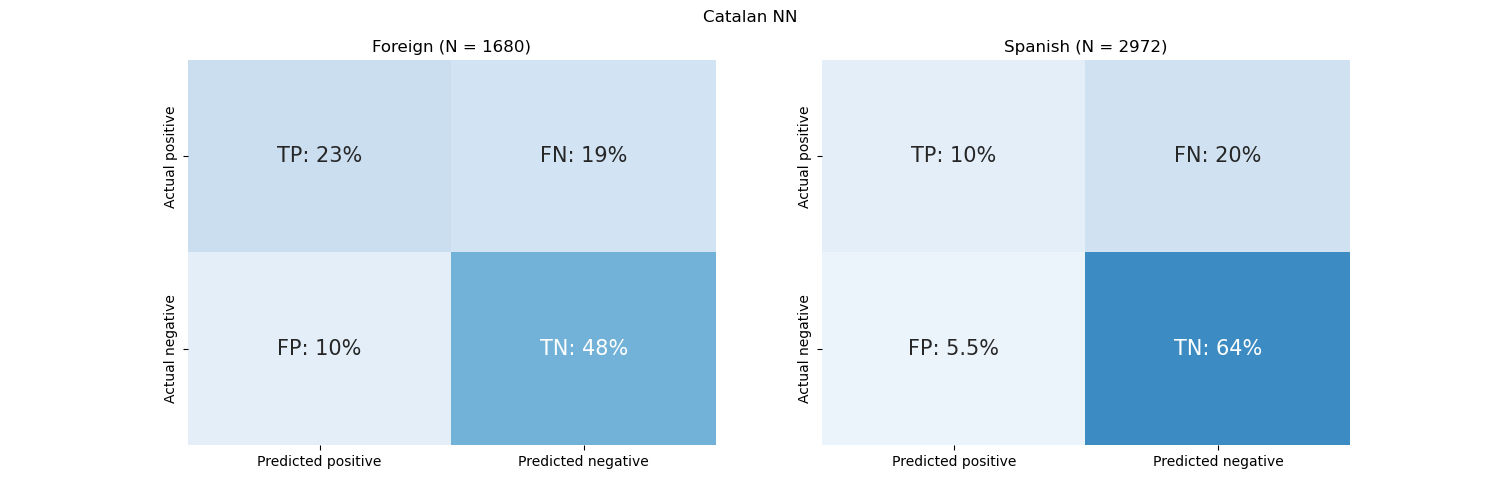
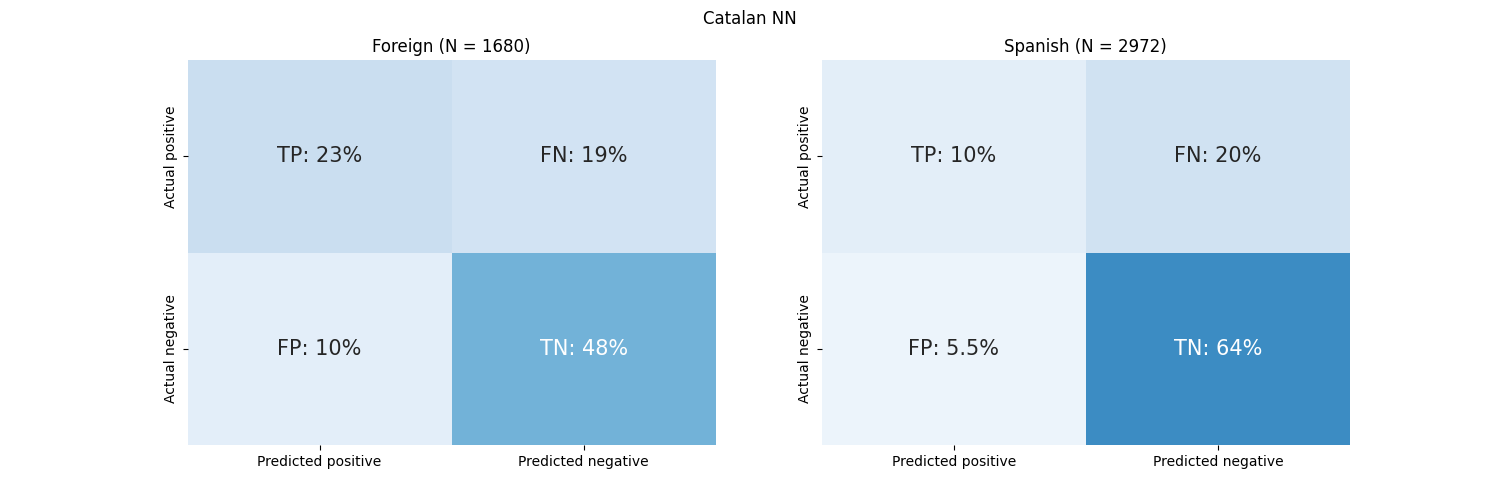
New color palette

diff --git a/src/evaluation_tool/utils.py b/src/evaluation_tool/utils.py
@@ -54,14 +54,17 @@ def flip_dataframe(df, new_colname = 'index'):
 
 def custom_palette(n_colors = 1, specific_col_idx = None):
     """returns a custom palette of n_colors from 
-       https://coolors.co/f94144-f3722c-f8961e-f9844a-f9c74f-90be6d-43aa8b-4d908e-577590-277da1 
+       https://coolors.co/f94d50-f3722c-f8961e-f9844a-f9c74f-a1c680-3a9278-7ab8b6-577590-206683
         
         Args:
             n_color: The number of desired colors max 10. Defaults to 1.
             specific_col_idx: list of desired color indexes. Defaults to None.
     """
-    colors =  ["f94144","f3722c","f8961e","f9844a","f9c74f",
-               "90be6d","43aa8b","4d908e","577590","277da1"]
+    colors =  ["f94d50","f3722c","f8961e","f9844a","f9c74f","a1c680","3a9278","7ab8b6","577590","206683"]
+
+
+
+
     max_colors = len(colors)
     assert n_colors < max_colors, "n_colors must be less than 10"    
     

diff --git a/src/evaluation_tool/evaluater.py b/src/evaluation_tool/evaluater.py
@@ -15,8 +15,8 @@ if __name__ == '__main__':
     run_anym = False
     run_german = False
     run_taiwanese = False
-    run_compas = True
-    run_catalan = False
+    run_compas = False
+    run_catalan = True
 
     credit_w_fp = 0.9
     compas_w_fp = 0.9
